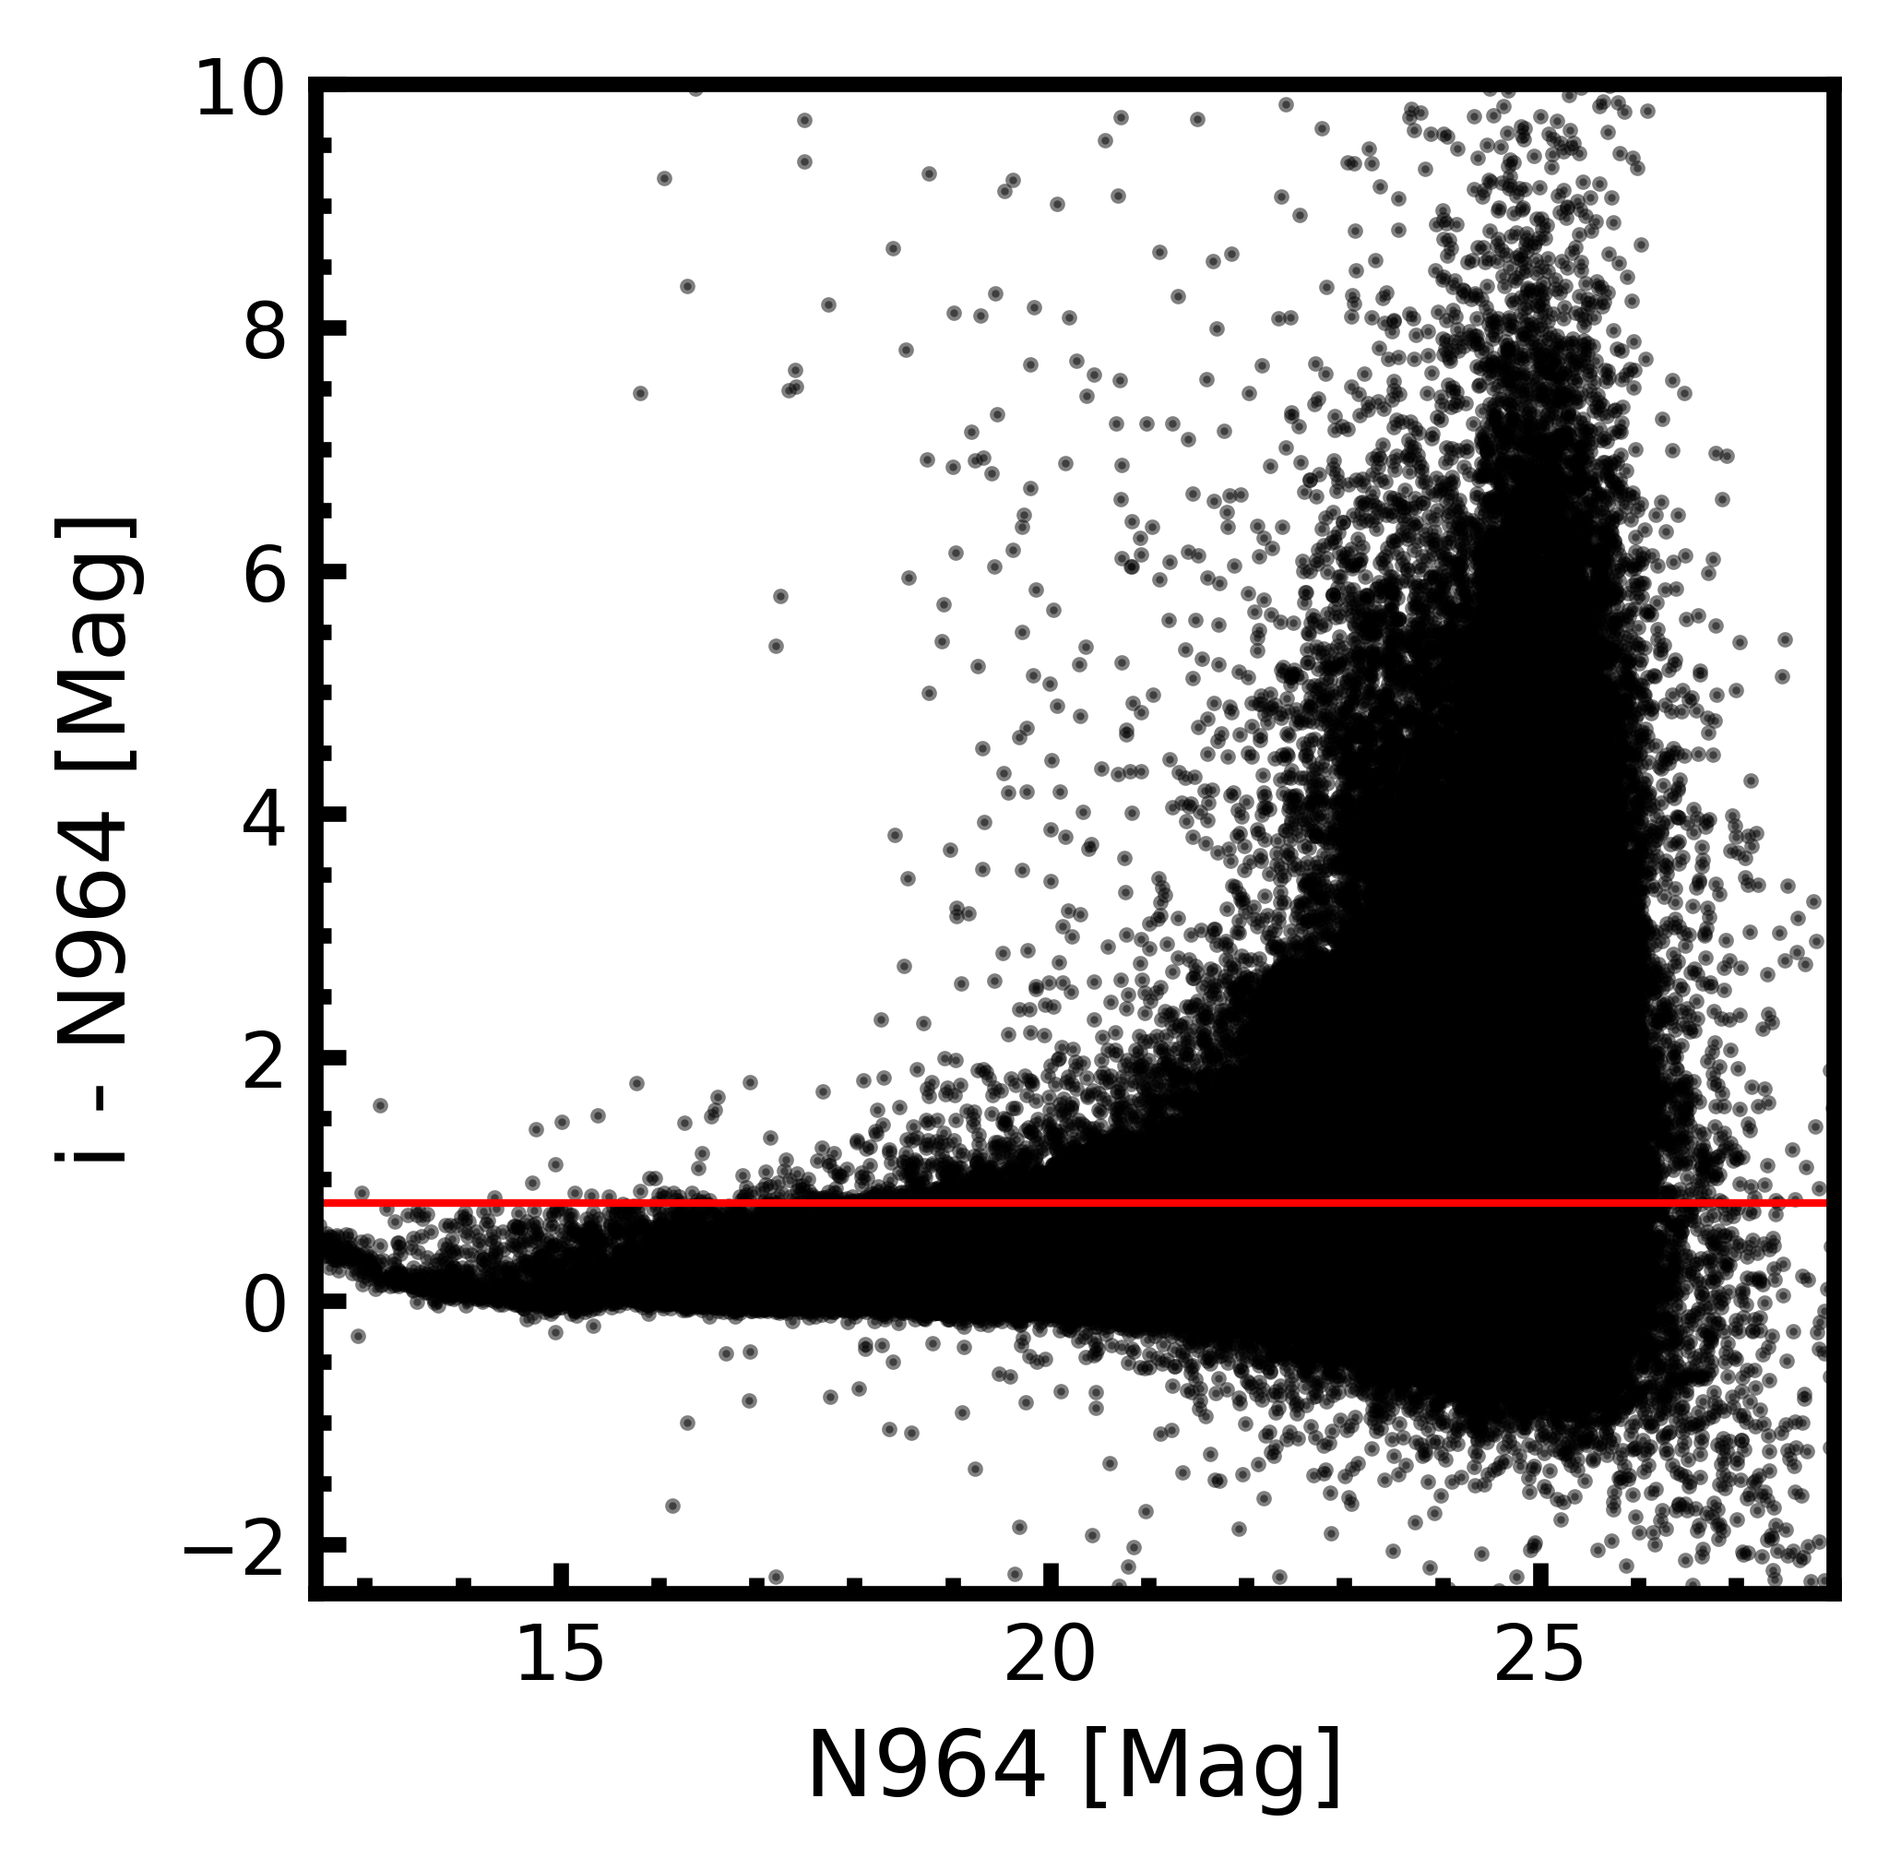
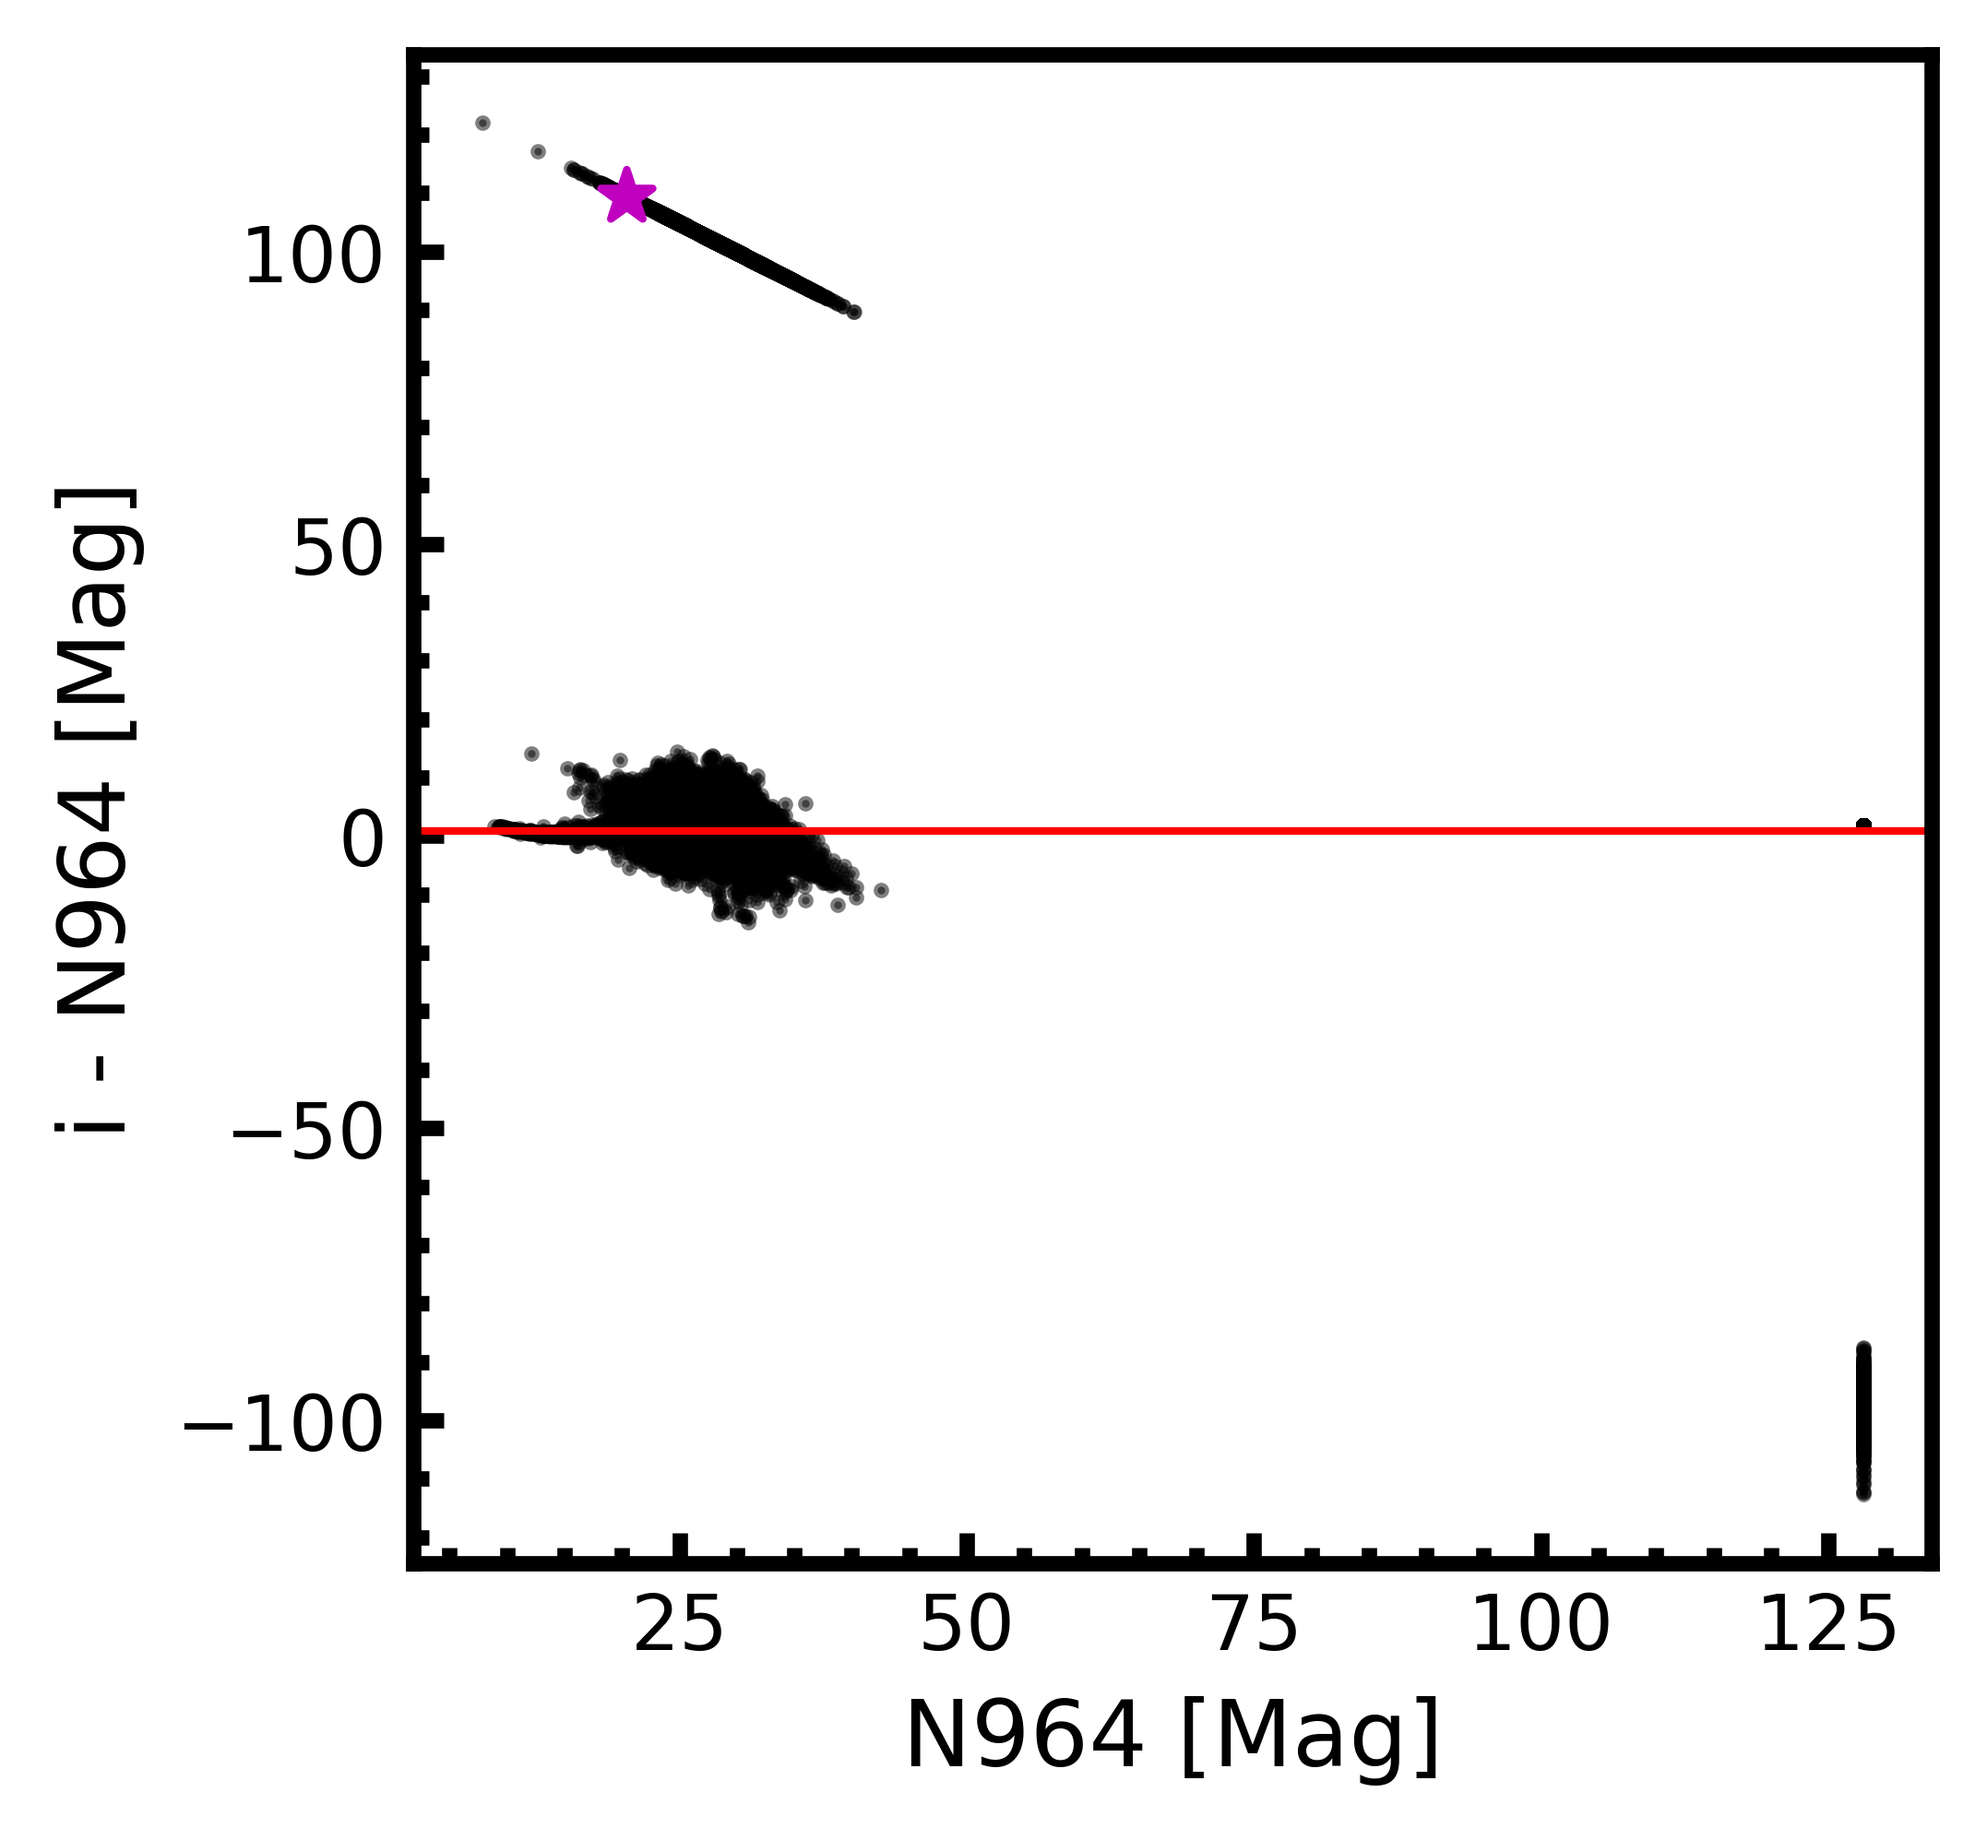
trim putting files in the right folder

diff --git a/trim.py b/trim.py
@@ -42,11 +42,11 @@ if __name__ == '__main__':
     hdu, wcs = read_in_fits(INFILE_N964)
     n964_position = SkyCoord(hdu[0].header['CRVAL1']*u.deg, hdu[0].header['CRVAL2']*u.deg)
 
-    cut_fits_image(INFILE_I, n964_position, SIZE, '../correct_stacks/i/i.fits')
-    cut_fits_image(INFILE_I_WEIGHT, n964_position, SIZE, '../correct_stacks/i/i_weight.fits')
+    cut_fits_image(INFILE_I, n964_position, SIZE, '../correct_stacks/N964/i.fits')
+    cut_fits_image(INFILE_I_WEIGHT, n964_position, SIZE, '../correct_stacks/N964/i_weight.fits')
 
-    cut_fits_image(INFILE_Z, n964_position, SIZE, '../correct_stacks/z/z.fits')
-    cut_fits_image(INFILE_Z_WEIGHT, n964_position, SIZE, '../correct_stacks/z/z_weight.fits')
+    cut_fits_image(INFILE_Z, n964_position, SIZE, '../correct_stacks/N964/z.fits')
+    cut_fits_image(INFILE_Z_WEIGHT, n964_position, SIZE, '../correct_stacks/N964/z_weight.fits')
 
     cut_fits_image(INFILE_N964, n964_position, SIZE, '../correct_stacks/N964/n964.fits')
     cut_fits_image(INFILE_N964_WEIGHT, n964_position, SIZE, '../correct_stacks/N964/n964_weight.fits')

diff --git a/hu_2019_plot.py b/hu_2019_plot.py
@@ -45,15 +45,15 @@ if __name__ == '__main__':
     c = SkyCoord(ra = RA_QSO * u.deg, dec = DEC_QSO * u.deg)
     idx, d2d, _ = c.match_to_catalog_sky(catalog)
 
-    print(z_ra[idx], z_dec[idx])
+    print(i_ra[idx], i_dec[idx])
     print(d2d)
     print(RA_QSO, DEC_QSO)
 
     plotting.start_plot('N964 [Mag]', 'z - N964 [Mag]')
     plt.scatter(n_mag, z_mag - n_mag, s=1, color='k', alpha=0.5)
     plt.scatter(n_mag[idx], z_mag[idx] - n_mag[idx], marker='*', s=50, color='m')
-    plt.xlim(12.5, 28)
-    plt.ylim(-2.4,10)
+    #plt.xlim(12.5, 28)
+    #plt.ylim(-2.4,10)
     plt.axhline(1.9, color='r', lw=1)
     plotting.end_plot('plots/hu_plot_z.png')
 
@@ -69,7 +69,7 @@ if __name__ == '__main__':
     print('z - n964: ', z_mag[idx] - n_mag[idx])
 
 
-    plt.xlim(12.5, 28)
-    plt.ylim(-2.4,10)
+    #plt.xlim(12.5, 28)
+    #plt.ylim(-2.4,10)
     plt.axhline(0.8, color='r', lw=1)
     plotting.end_plot('plots/hu_plot_i.png')
